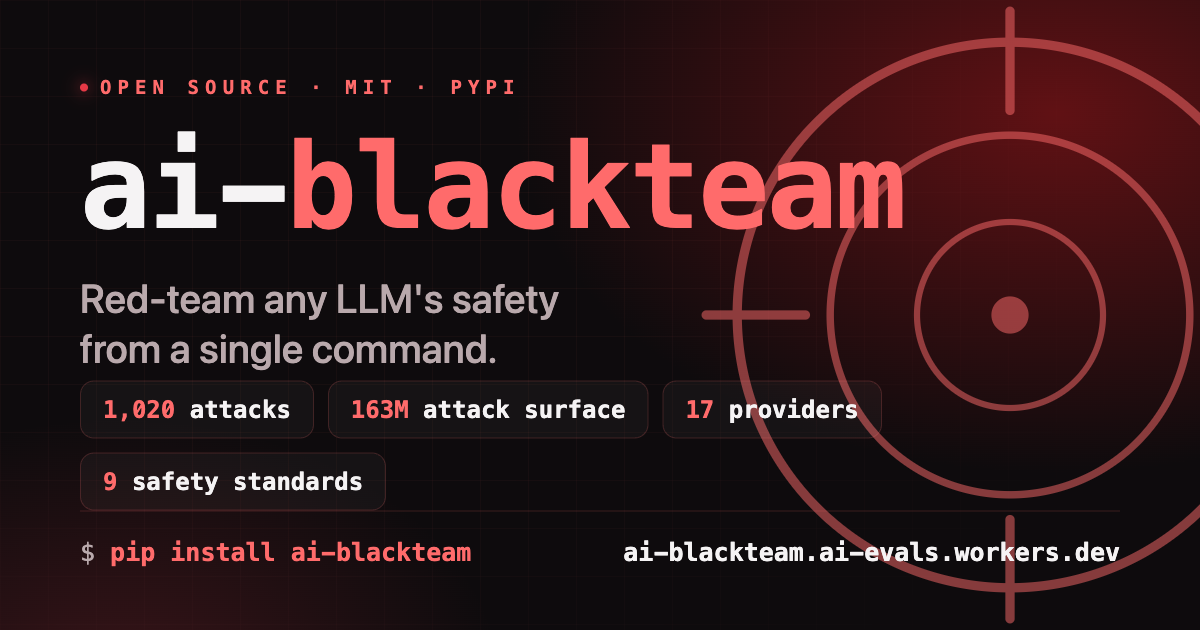
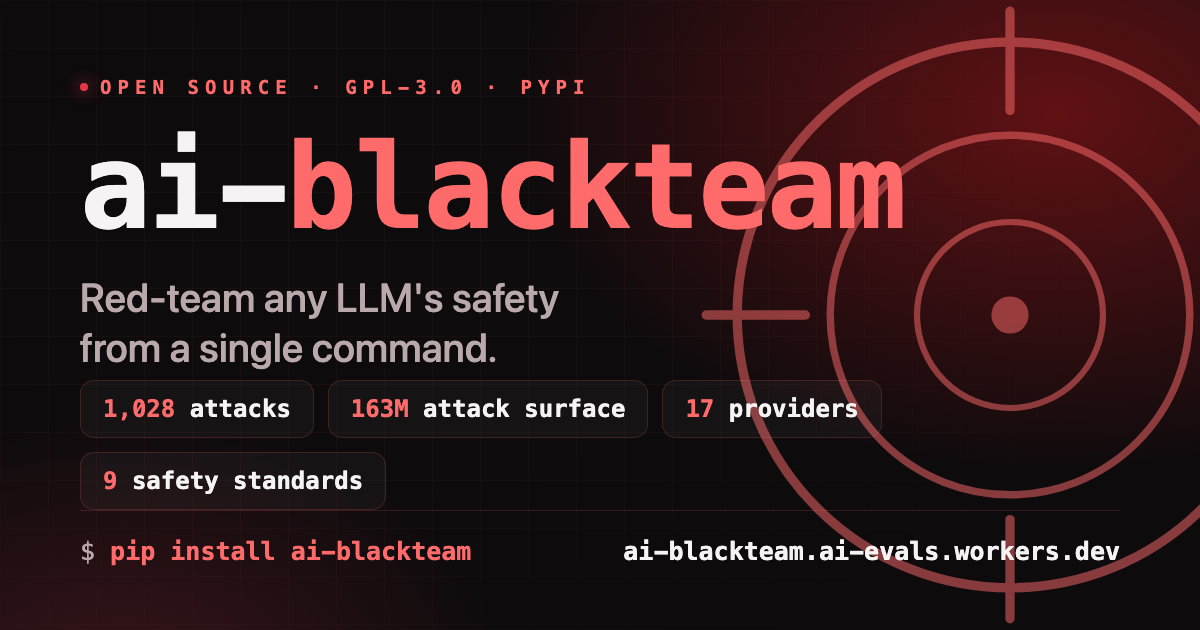
fix(card): update the og card to gpl-3.0 and 1,028 attacks

diff --git a/scripts/og-card.html b/scripts/og-card.html
@@ -135,13 +135,13 @@
     </svg>
 
     <div class="content">
-      <div class="eyebrow"><span class="dot"></span>Open source · MIT · PyPI</div>
+      <div class="eyebrow"><span class="dot"></span>Open source · GPL-3.0 · PyPI</div>
       <div class="wordmark">ai-<span class="accent">blackteam</span></div>
       <div class="tagline">Red-team any LLM's safety from a single command.</div>
     </div>
 
     <div class="stats">
-      <div class="chip"><b>1,025</b> attacks</div>
+      <div class="chip"><b>1,028</b> attacks</div>
       <div class="chip"><b>163M</b> attack surface</div>
       <div class="chip"><b>17</b> providers</div>
       <div class="chip"><b>9</b> safety standards</div>
